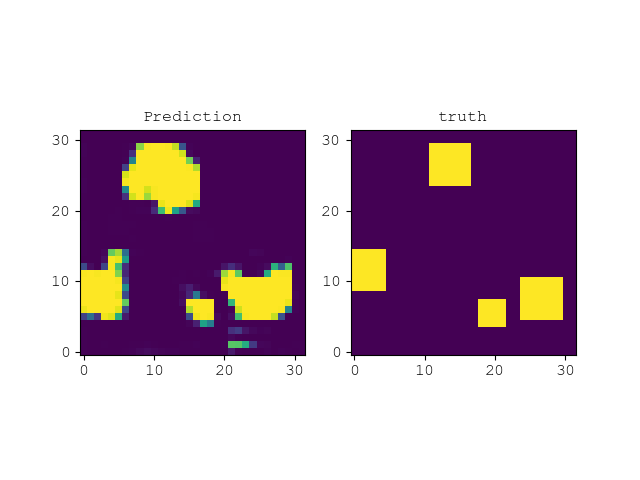
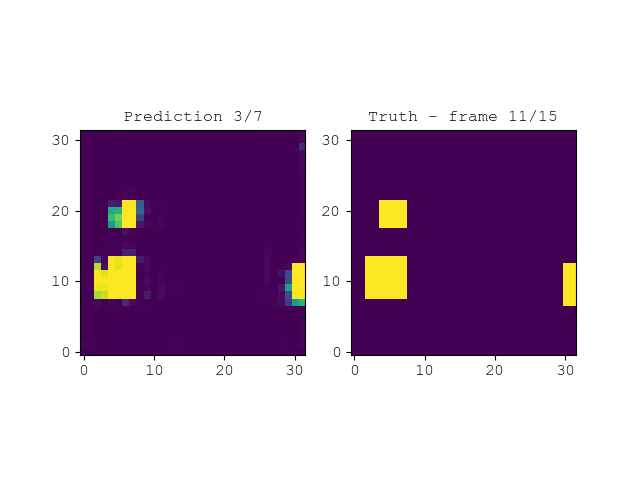
updated model

diff --git a/predict_next_images.py b/predict_next_images.py
@@ -105,7 +105,7 @@ if __name__ == '__main__':
 
 
     ### Take an example from the test set and predict the next steps
-    index = train_size+1
+    index = train_size+28
 
     num_test_frames = 7 ### Number of frames to predict
 
@@ -124,13 +124,13 @@ if __name__ == '__main__':
         fig, ax = pl.subplots(1,2)
         ### In left panel show original then predicted frames
         if i >= (nframes-num_test_frames):
-            ax[0].set_title('Prediction')
+            ax[0].set_title("Prediction {:d}/{:d}".format(i-num_test_frames,nframes-num_test_frames-1))
         else:
-            ax[0].set_title('Original')
+            ax[0].set_title("Original")
         ax[0].imshow(train_pred[i, :, :, 0],vmin=vmin,vmax=vmax)
 
         ### In right panel show only truth 
-        ax[1].set_title('truth')
+        ax[1].set_title("Truth - frame {:d}/{:d}".format(i+1,nframes))
         if i >= 2:
             ax[1].imshow(movies_shifted[index][i - 1, :, :, 0],vmin=vmin,vmax=vmax)
         else:
